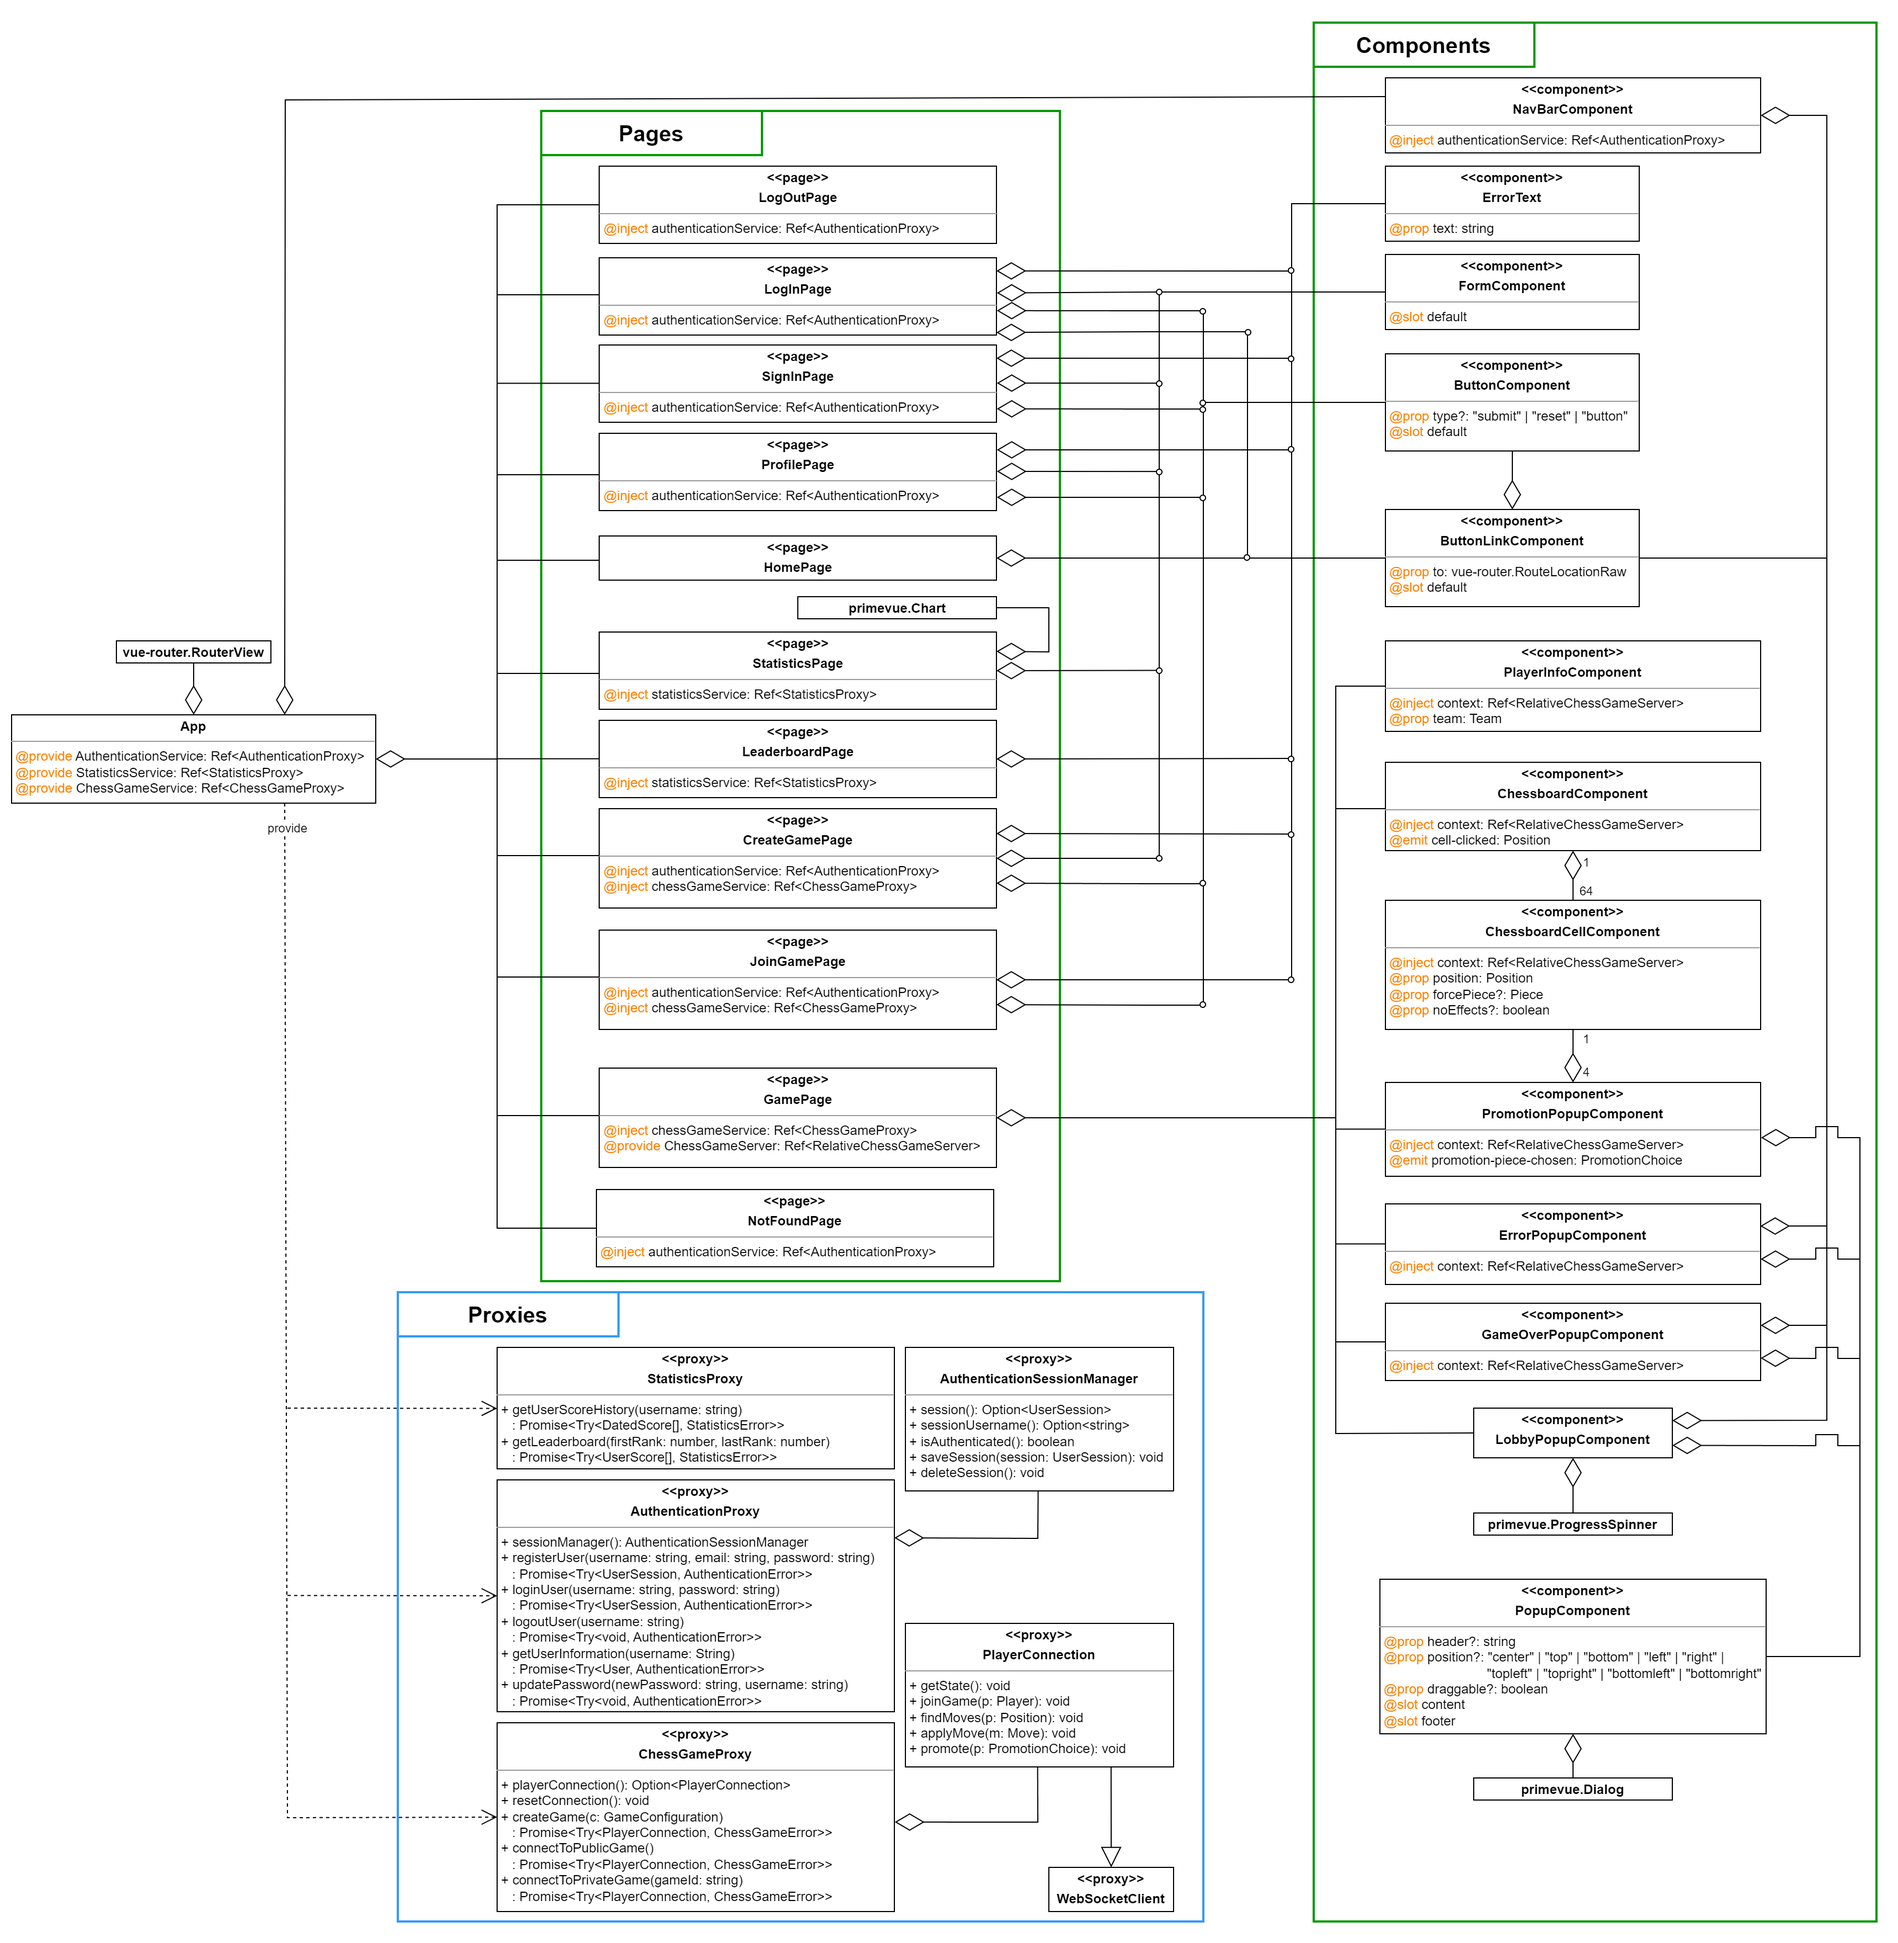
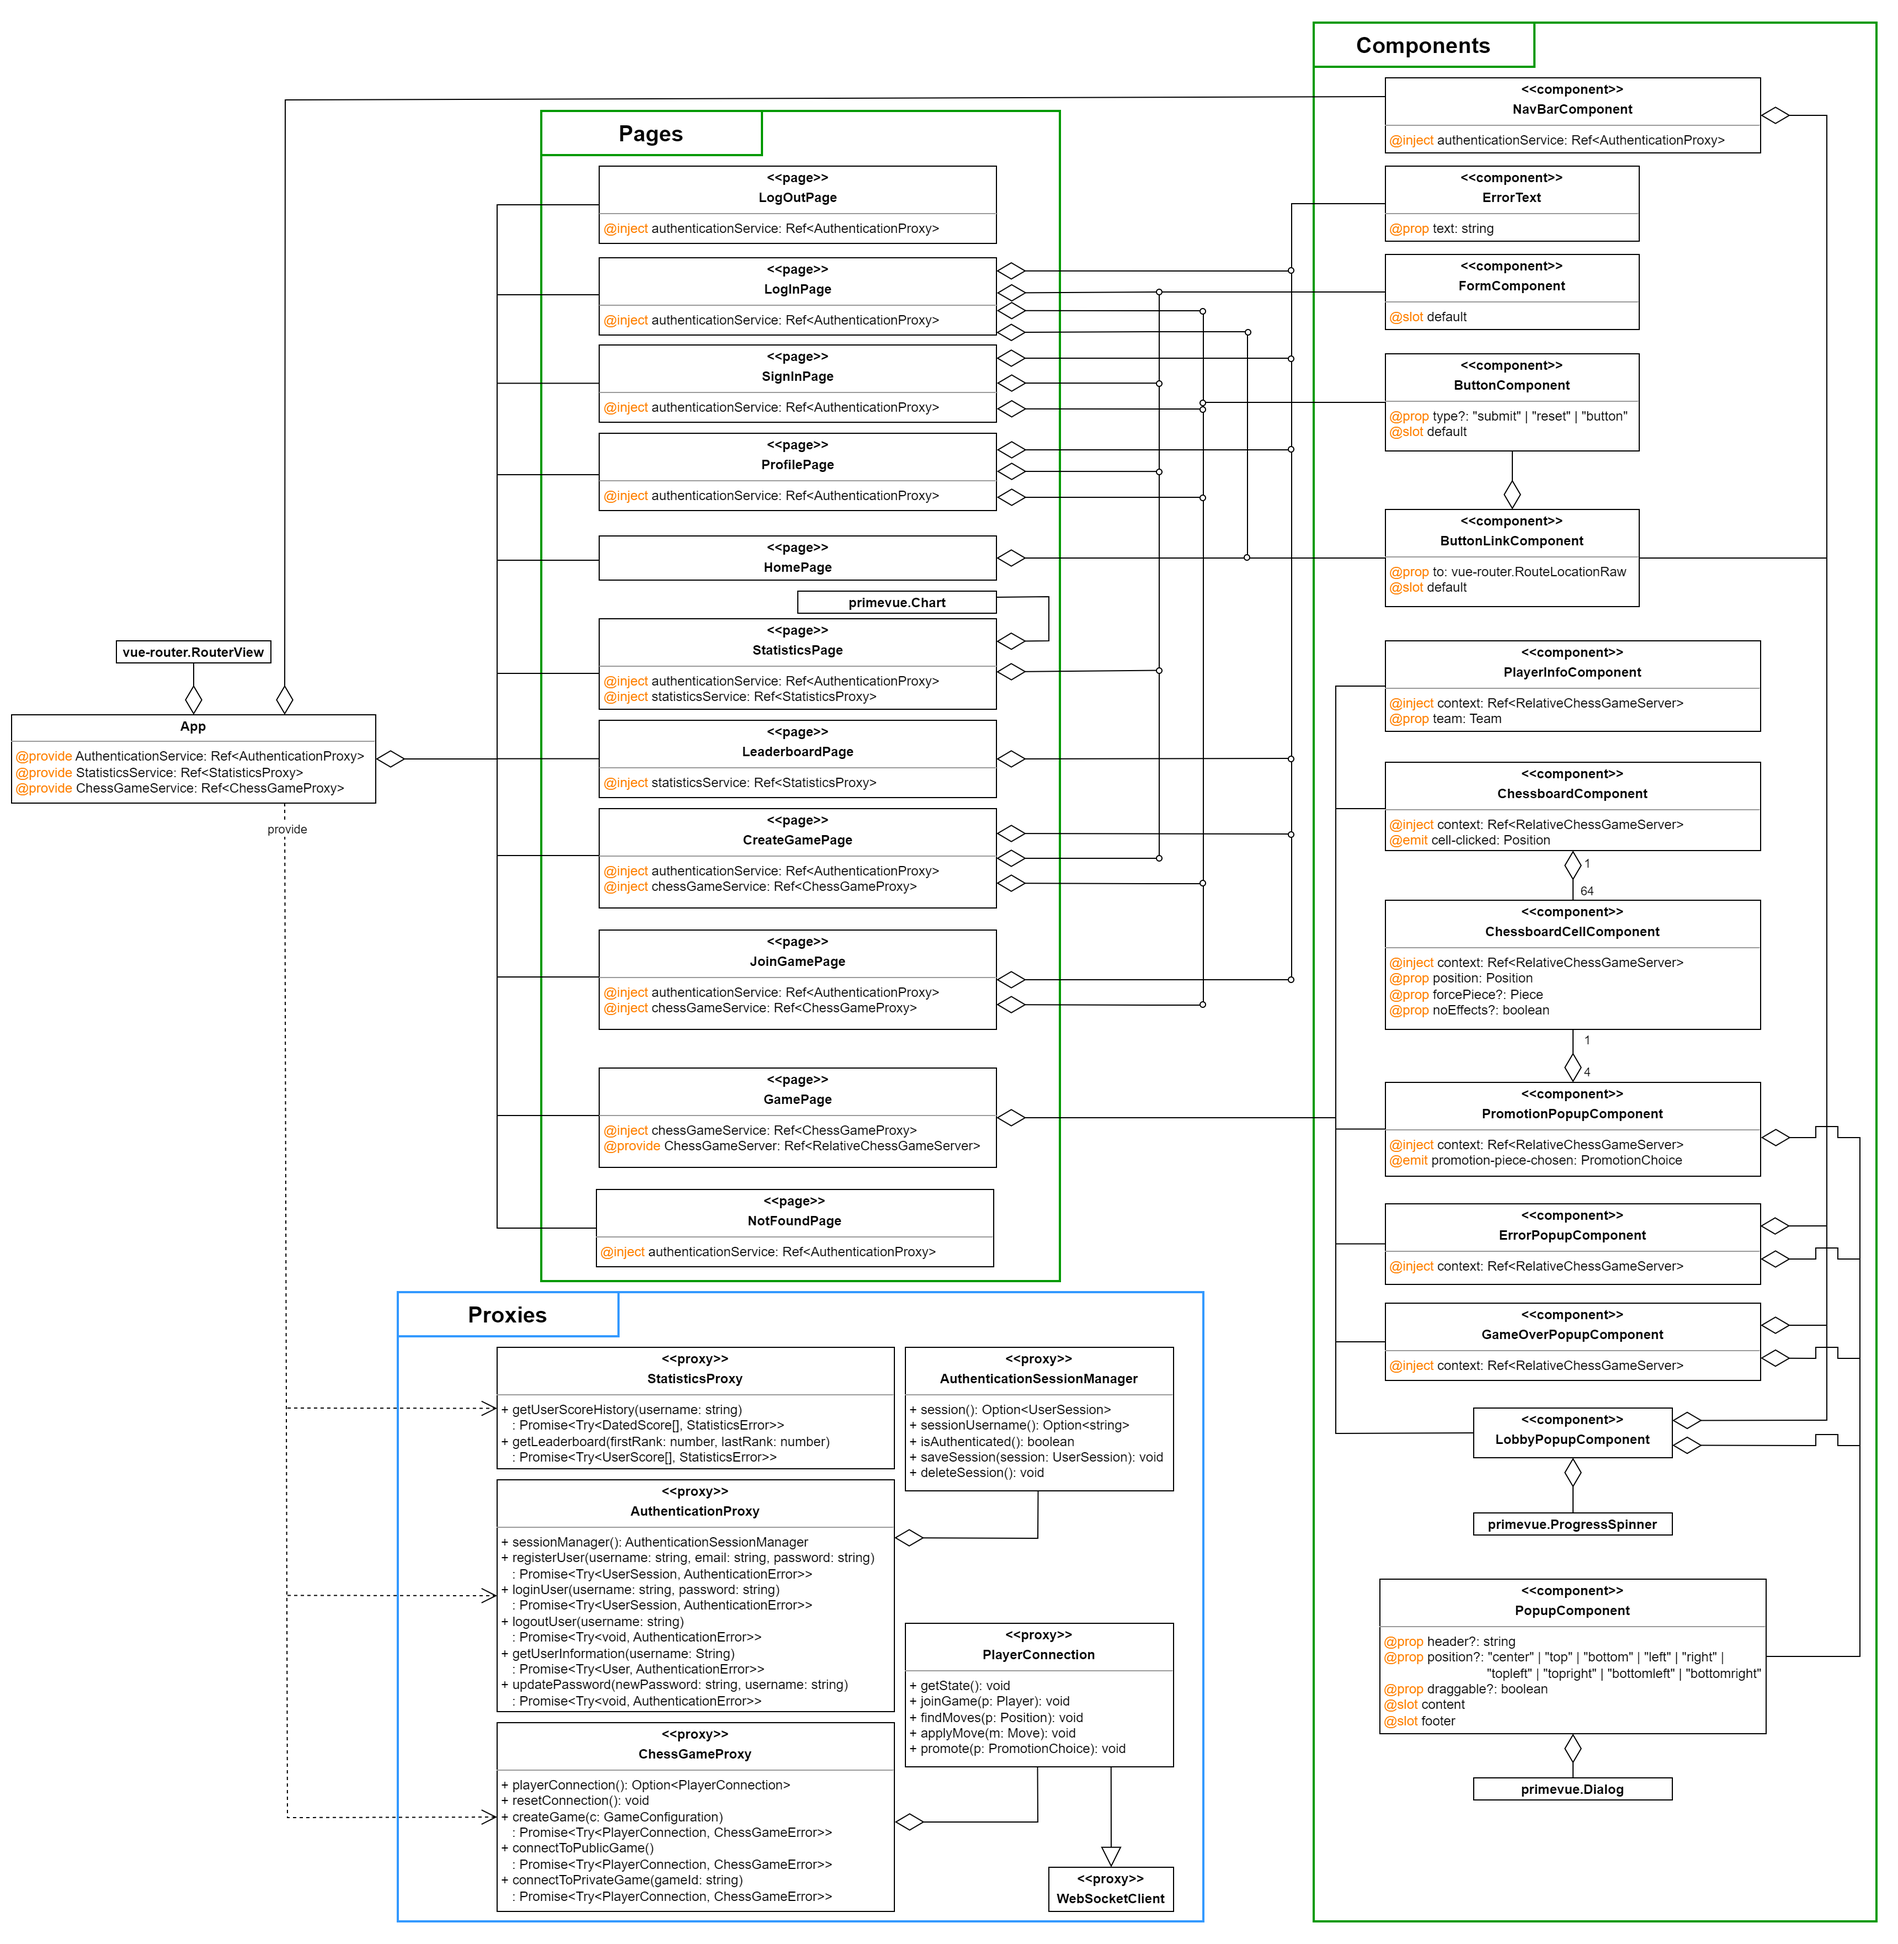
docs: add clarification on the dependency between the StatisticsPage and the AuthenticationProxy in the implementation chapter

diff --git a/docs/1-implementation/index.md b/docs/1-implementation/index.md
@@ -579,10 +579,17 @@ Al caricamento della schermata, la `StatisticsPage` dichiara una dipendenza con 
 che utilizza per ottenere lo storico dei punteggi del giocatore. In particolare, lo `StatisticsProxy`
 richiede la valutazione dello storico dei punteggi del giocatore (incluso l'ultimo punteggio aggiornato)
 allo [statistics-service](https://github.com/ldss-project/statistics-service), inoltrando la risposta alla
-`LeaderboardPage`.
+`StatisticsPage`.
 
 Lo storico dei punteggi del giocatore viene richiesto al caricamento della schermata per mostrare l'ultimo
 punteggio del giocatore e l'andamento del suo ratio nel tempo.
+
+Nel caso in cui nessun punteggio fosse registrato per il giocatore, se le statistiche appartengono all'utente
+saranno mostrati dei dati placeholder, altrimenti l'utente sarà reindirizzato alla `NotFoundPage`. 
+
+Per sapere se le statistiche appartengono all'utente, la `StatisticsPage` dichiara una dipendenza con
+l'`AuthenticationProxy`, che utilizza per accedere alla sessione dell'utente, quindi potendo confrontare il
+nome dell'utente con il nome del giocatore di cui sono state richieste le statistiche.
 
 #### NotFoundPage
 
